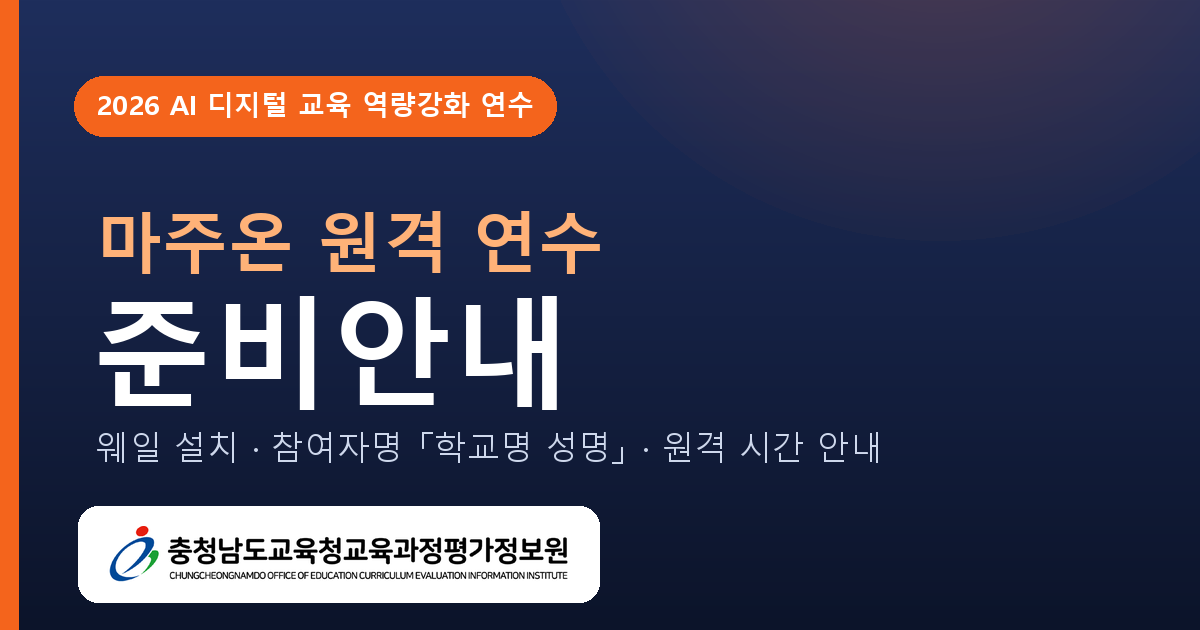
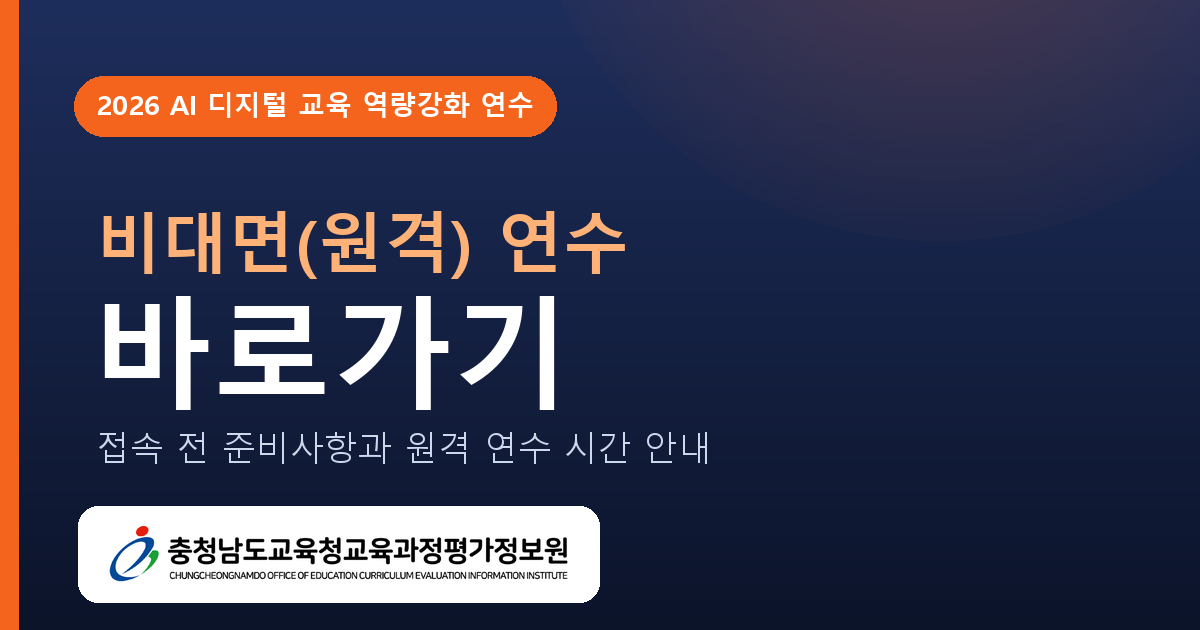
guide.html 오픈그래프 썸네일을 '비대면(원격) 연수 바로가기'로 변경(이미지·메타 v2)

Changed region(s): [[0.0617, 0.3317, 0.5242, 0.6635], [0.0617, 0.6635, 0.74, 0.754]]

diff --git a/guide.html b/guide.html
@@ -8,17 +8,17 @@
 <meta name="description" content="비대면(원격) 연수 접속 전 준비사항 — 네이버 웨일 설치, 회의 ID·비밀번호, 참여자명 규칙, 원격 연수 시간, 바로가기." />
 <!-- 오픈그래프 (카카오톡·문자·SNS 공유 미리보기) -->
 <meta property="og:type" content="website" />
-<meta property="og:title" content="마주온 원격 연수 준비안내" />
-<meta property="og:description" content="접속 전 준비사항 · 참여자명 「학교명 성명」 · 원격 연수 시간 안내" />
+<meta property="og:title" content="비대면(원격) 연수 바로가기" />
+<meta property="og:description" content="접속 전 준비사항과 원격 연수 시간 안내 · 마주온 원격 연수 바로가기" />
 <meta property="og:url" content="https://t-portalapp.netlify.app/guide.html" />
-<meta property="og:image" content="https://t-portalapp.netlify.app/guide-og.png?v=1" />
+<meta property="og:image" content="https://t-portalapp.netlify.app/guide-og.png?v=2" />
 <meta property="og:image:width" content="1200" />
 <meta property="og:image:height" content="630" />
 <meta property="og:locale" content="ko_KR" />
 <meta name="twitter:card" content="summary_large_image" />
-<meta name="twitter:title" content="마주온 원격 연수 준비안내" />
-<meta name="twitter:description" content="접속 전 준비사항 · 참여자명 「학교명 성명」 · 원격 연수 시간" />
-<meta name="twitter:image" content="https://t-portalapp.netlify.app/guide-og.png?v=1" />
+<meta name="twitter:title" content="비대면(원격) 연수 바로가기" />
+<meta name="twitter:description" content="접속 전 준비사항과 원격 연수 시간 안내" />
+<meta name="twitter:image" content="https://t-portalapp.netlify.app/guide-og.png?v=2" />
 <style>
   :root{
     --navy:#16224a; --navy2:#22417e; --orange:#f4641c; --orange2:#ffa24a;
